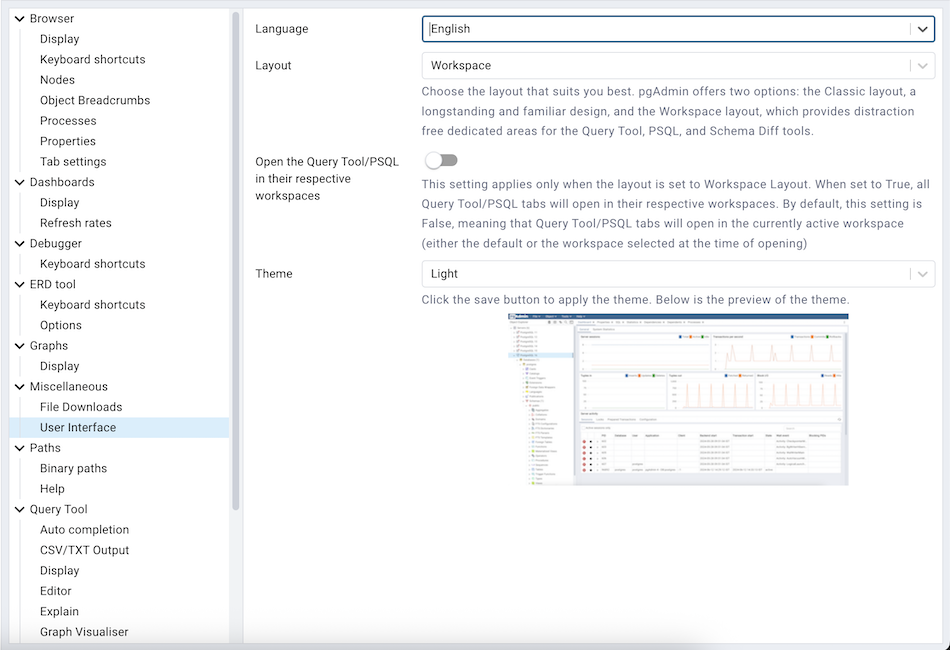
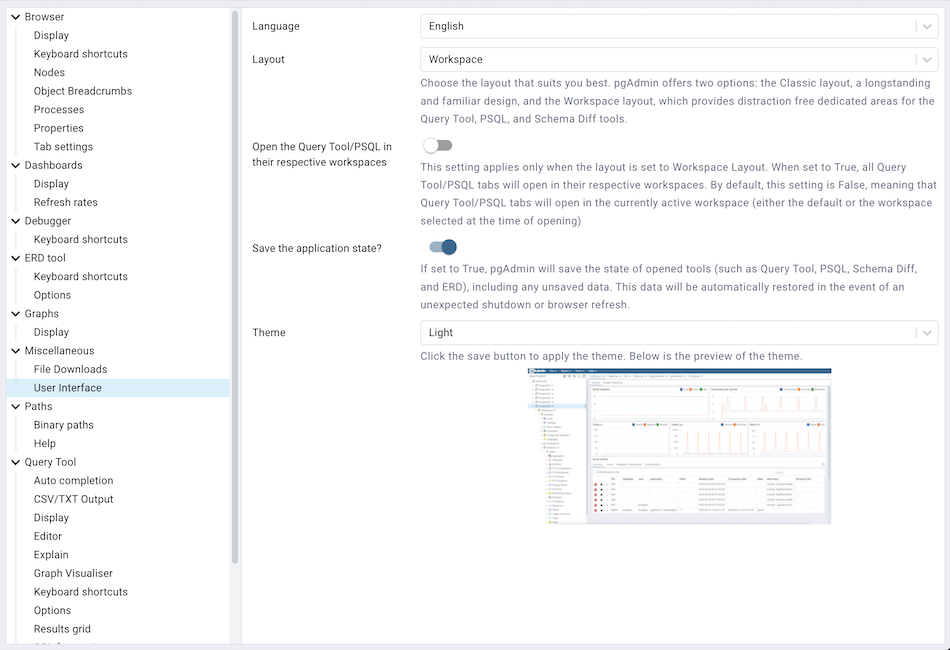
1. Fixed issues reported while testing changes for editor preferences. #2659
2. Updated preferences docs.

diff --git a/web/pgadmin/browser/static/js/browser.js b/web/pgadmin/browser/static/js/browser.js
@@ -1653,38 +1653,7 @@ define('pgadmin.browser', [
       }
 
     },
-
-    editor_shortcut_keys: {
-      // Autocomplete sql command
-      'Ctrl-Space': 'autocomplete',
-      'Cmd-Space': 'autocomplete',
-
-      'Alt-Up': 'goLineUp',
-      'Alt-Down': 'goLineDown',
-
-      // Move word by word left/right
-      'Ctrl-Alt-Left': 'goGroupLeft',
-      'Cmd-Alt-Left': 'goGroupLeft',
-      'Ctrl-Alt-Right': 'goGroupRight',
-      'Cmd-Alt-Right': 'goGroupRight',
-
-      // Allow user to delete Tab(s)
-      'Shift-Tab': 'indentLess',
-    },
-    editor_options: {
-      tabSize: parseInt(pgBrowser.utils.tabSize),
-      wrapCode: pgBrowser.utils.wrapCode,
-      insert_pair_brackets: pgBrowser.utils.insertPairBrackets,
-      brace_matching: pgBrowser.utils.braceMatching,
-      indent_with_tabs: pgBrowser.utils.is_indent_with_tabs,
-      highlightSelectionMatches:pgBrowser.utils.highlightSelectionMatches
-    },
   });
-
-  // Use spaces instead of tab
-  if (pgBrowser.utils.useSpaces == 'True') {
-    pgAdmin.Browser.editor_shortcut_keys.Tab = 'insertSoftTab';
-  }
 
   return pgAdmin.Browser;
 });

diff --git a/web/pgadmin/static/js/components/ReactCodeMirror/components/Editor.jsx b/web/pgadmin/static/js/components/ReactCodeMirror/components/Editor.jsx
@@ -272,8 +272,10 @@ export default function Editor({
   useEffect(() => {
     if (!checkIsMounted()) return;
     const keys = keymap.of([
-      customKeyMap??[], defaultKeymap, closeBracketsKeymap, historyKeymap,
-      foldKeymap, completionKeymap
+      // Filtering out the default keymaps so that it uses the custom keymaps.
+      customKeyMap??[], ...completionKeymap.filter(k => k.key != 'Ctrl-Space'),
+      defaultKeymap.filter(k => k.key != 'Mod-/'), closeBracketsKeymap, historyKeymap,
+      foldKeymap
     ].flat());
     editor.current?.dispatch({
       effects: shortcuts.current.reconfigure(keys)
@@ -298,6 +300,7 @@ export default function Editor({
     }));
 
     const autoCompOptions = {
+      defaultKeymap: false,
       icons: false,
       addToOptions: [{
         render: (completion) => {

diff --git a/web/pgadmin/browser/templates/browser/js/utils.js b/web/pgadmin/browser/templates/browser/js/utils.js
@@ -85,13 +85,6 @@ define('pgadmin.browser.utils',
     layout: {{ layout|tojson }},
     theme: '{{ theme }}',
     pg_help_path: '{{ pg_help_path }}',
-    tabSize: '{{ editor_tab_size }}',
-    wrapCode: '{{ editor_wrap_code }}' == 'True',
-    useSpaces: '{{ editor_use_spaces }}',
-    insertPairBrackets: '{{ editor_insert_pair_brackets }}' == 'True',
-    braceMatching: '{{ editor_brace_matching }}' == 'True',
-    highlightSelectionMatches: '{{editor_highlight_selection_matches}}' == 'True',
-    is_indent_with_tabs: '{{ editor_indent_with_tabs }}' == 'True',
     app_name: '{{ app_name }}',
     app_version_int: '{{ app_version_int}}',
     pg_libpq_version: {{pg_libpq_version|e}},

diff --git a/web/pgadmin/static/js/components/ReactCodeMirror/index.jsx b/web/pgadmin/static/js/components/ReactCodeMirror/index.jsx
@@ -131,7 +131,7 @@ export default function CodeMirror({className, currEditor, showCopyBtn=false, cu
     preventDefault: true,
     stopPropagation: true,
   },{
-    key: toCodeMirrorKey(preferences.autocomplete), run: startCompletion,
+    key: toCodeMirrorKey(preferences.auto_complete), run: startCompletion,
     preventDefault: true,
   },
   ...customKeyMap], [customKeyMap]);

diff --git a/web/pgadmin/browser/__init__.py b/web/pgadmin/browser/__init__.py
@@ -481,32 +481,6 @@ def utils():
     pg_help_path_pref = prefs.preference('pg_help_path')
     pg_help_path = pg_help_path_pref.get()
 
-    # Get sqleditor options
-    prefs = Preferences.module('sqleditor')
-
-    editor_tab_size_pref = prefs.preference('tab_size')
-    editor_tab_size = editor_tab_size_pref.get()
-
-    editor_use_spaces_pref = prefs.preference('use_spaces')
-    editor_use_spaces = editor_use_spaces_pref.get()
-
-    editor_wrap_code_pref = prefs.preference('wrap_code')
-    editor_wrap_code = editor_wrap_code_pref.get()
-
-    brace_matching_pref = prefs.preference('brace_matching')
-    brace_matching = brace_matching_pref.get()
-
-    highlight_selection_matches_pref = prefs.preference(
-        'highlight_selection_matches'
-    )
-    highlight_selection_matches = highlight_selection_matches_pref.get()
-
-    insert_pair_brackets_perf = prefs.preference('insert_pair_brackets')
-    insert_pair_brackets = insert_pair_brackets_perf.get()
-
-    # This will be opposite of use_space option
-    editor_indent_with_tabs = False if editor_use_spaces else True
-
     # Try to fetch current libpq version from the driver
     try:
         from config import PG_DEFAULT_DRIVER
@@ -537,13 +511,6 @@ def utils():
             layout=layout,
             jssnippets=snippets,
             pg_help_path=pg_help_path,
-            editor_tab_size=editor_tab_size,
-            editor_use_spaces=editor_use_spaces,
-            editor_wrap_code=editor_wrap_code,
-            editor_brace_matching=brace_matching,
-            editor_highlight_selection_matches=highlight_selection_matches,
-            editor_insert_pair_brackets=insert_pair_brackets,
-            editor_indent_with_tabs=editor_indent_with_tabs,
             app_name=config.APP_NAME,
             app_version_int=config.APP_VERSION_INT,
             pg_libpq_version=pg_libpq_version,

diff --git a/docs/en_US/preferences.rst b/docs/en_US/preferences.rst
@@ -43,17 +43,18 @@ Use the fields on the *Display* panel to specify general display preferences:
   be automatically expanded if a treeview node is expanded and has only a single
   child.
 
+* When the *Confirm before Close/Reset in object properties dialog?* switch is
+  set to *True*, pgAdmin will warn you before closing the properties dialog of
+  an object if there are any unsaved changes. On user confirmation,
+  the properties dialog will close.
+
+* When the *Confirm on close or refresh?* switch is set to *True*, pgAdmin will
+  attempt to catch browser close or refresh events and prompt before allowing
+  them to continue.
+
 * Use the *Object explorer state saving interval* field to set the treeview state
   saving interval. A value of *-1* will disable the treeview state saving
   functionality.
-
-* When the *Confirm before closing properties with unsaved changes* switch is set to *True*,
-  pgAdmin will warn you before closing the properties dialog of an object if there
-  are any unsaved changes. On user confirmation, the properties dialog will close.
-
-* When the *Confirm on close or refresh* switch is set to *True*, pgAdmin will
-  attempt to catch browser close or refresh events and prompt before allowing
-  them to continue.
 
 * When the *Hide shared servers?* switch is set to *True*, the client will hide
   all the shared servers from the object explorer. **Note:** This option is visible only when
@@ -61,9 +62,11 @@ Use the fields on the *Display* panel to specify general display preferences:
 
 * When the *Show empty object collections?* switch is turned off, then all object
   collections which are empty will be hidden from browser tree.
+
 * When the *Show system objects?* switch is set to *True*, the client will
   display system objects such as system schemas (for example, *pg_temp*) or
   system columns (for example,  *xmin* or *ctid*) in the tree control.
+
 * When the *Show template databases?* switch is set to *True*, the client will
   display template databases.
 
@@ -138,6 +141,8 @@ Use field on *Tab settings* panel to specify the tab related properties.
 
 * When the *Dynamic tab size* If set to True, the tabs will take full size as per the title, it will also applicable for already opened tabs
 
+* Use the *PSQL tool tab title placeholder* field to customize the PSQL tool tab title.
+
 * When the *Open in new browser tab* filed is selected for Query tool, Schema Diff or Debugger, it will
   open in a new browser tab when invoked.
 
@@ -190,6 +195,9 @@ preferences for the graphs on the *Dashboard* tab:
 
 * Use the *Memory usage statistics refresh rate* field to specify the number
   of seconds between memory usage statistics samples displayed in graphs.
+
+* Use the *PGD replication lag refresh rate* field to specify the number
+  of seconds between PGD replication lag samples displayed in graphs.
 
 * Use the *Percentage of CPU time used by different process modes statistics refresh rate*
   field to specify the number of seconds between Percentage of CPU time used by different
@@ -259,12 +267,12 @@ The Graphs Node
 
 Expand the *Graphs* node to specify your Graphs display preferences.
 
-* Use the *Chart line width* field to specify the width of the lines on the
-  line chart.
-
 .. image:: images/preferences_dashboard_graphs.png
     :alt: Preferences dashboard graph options
     :align: center
+
+* Use the *Chart line width* field to specify the width of the lines on the
+  line chart.
 
 * When the *Show graph data points?* switch is set to *True*, data points will
   be visible on graph lines.
@@ -318,18 +326,16 @@ Use the fields on the *User Interface* panel to set the user interface related p
 
 * When the *Save the application state?* option is enabled  the current state of various
   tools—such as Query Tool, ERD, Schema Diff, and PSQL—will be saved in the encrypted
-  format.If the application is closed unexpectedly, the tab is accidentally closed,
+  format. If the application is closed unexpectedly, the tab is accidentally closed,
   or the page is refreshed, the saved state will be automatically restored for
-  each respective tool.**Note:**
+  each respective tool. **Note:** Saving the application state will not preserve data for tool tabs opened in
+  separate browser tabs when running in server mode.
 
 * Use the *Themes* drop-down listbox to select the theme for pgAdmin. You'll also get a preview just below the
   drop down. You can also submit your own themes,
   check `here <https://github.com/pgadmin-org/pgadmin4/blob/master/README.md>`_ how.
   Currently we support Light, Dark, High Contrast and System theme. Selecting System option will follow
   your computer's settings.
-
-**Note:** Saving the application state will not preserve data for tool tabs opened in
-separate browser tabs when running in server mode..
 
 The Paths Node
 **************
@@ -427,6 +433,10 @@ Tool display.
 
 Use the fields on the *Editor* panel to change settings of the query editor.
 
+* Use the *Auto-indent new line?* switch to specify whether the editor will
+  automatically indent new lines. When set to *True*, the editor will indent
+  new lines according to the indentation of the previous line.
+
 * When the *Brace matching?* switch is set to *True*, the editor will highlight
   pairs of matched braces.
 
@@ -444,6 +454,9 @@ Use the fields on the *Editor* panel to change settings of the query editor.
 * Use the *Font size* field to specify the font size that will be used in text
   boxes and editors.
 
+* When the *Highlight selection matches?* switch is set to *True*, the editor will
+  highlight matched selected text.
+
 * When the *Insert bracket pairs?* switch is set to *True*, the editor will
   automatically insert paired brackets.
 
@@ -453,9 +466,6 @@ Use the fields on the *Editor* panel to change settings of the query editor.
 * When the *Plain text mode?* switch is set to *True*, the editor mode will be
   changed to text/plain. Keyword highlighting and code folding will be disabled.
   This will improve editor performance with large files.
-
-* When the *Highlight selection matches?* switch is set to *True*, the editor will
-  highlight matched selected text.
 
 .. image:: images/preferences_sql_explain.png
     :alt: Preferences sqleditor explain options
@@ -512,28 +522,28 @@ Use the fields on the *Options* panel to manage editor preferences.
   the CREATE sql of the selected object will be copied to query tool when query tool
   will open.
 
+* When the *Open the file in a new tab?* switch is set to *True*, the
+  editor will open the new file in new tab of the Query Tool.
+
+* When the *Prompt to commit/rollback active transactions?* switch is set to
+  *True*, the editor will prompt the user to commit or rollback changes when
+  exiting the Query Tool while the current transaction is not committed.
+  
 * When the *Prompt to save unsaved data changes?* switch is set to *True*, the
   editor will prompt the user to saved unsaved data when exiting the data
   editor.
-
-* When the *Open the file in a new tab?* switch is set to *True*, the
-  editor will open the new file in new tab of the Query Tool.
 
 * When the *Prompt to save unsaved query changes?* switch is set to *True*, the
   editor will prompt the user to saved unsaved query modifications when exiting
   the Query Tool.
 
-* When the *Prompt to commit/rollback active transactions?* switch is set to
-  *True*, the editor will prompt the user to commit or rollback changes when
-  exiting the Query Tool while the current transaction is not committed.
+* When the *Show View/Edit Data Promotion Warning?* switch is set to *True*
+  View/Edit Data tool will show promote to Query tool confirm dialog on query edit.
 
 * When the *Sort View Data results by primary key columns?* If set to *True*,
   data returned when using the View/Edit Data - All Rows option will be sorted
   by the Primary Key columns by default. When using the First/Last 100 Rows options,
   data is always sorted.
-
-* When the *Show View/Edit Data Promotion Warning?* switch is set to *True*
-  View/Edit Data tool will show promote to Query tool confirm dialog on query edit.
 
 * When the *Underline query at cursor?* switch is set to *True*, query tool will
   parse and underline the query at the cursor position.
@@ -553,14 +563,15 @@ preferences for copied data.
   auto-size to the maximum width of the data in the column as loaded in the
   first batch. If set to *Column name*, the column will be sized to the widest
   of the data type or column name.
-* Specify the maximum width of the column in pixels when 'Columns sized by' is
-  set to *Column data*. If 'Columns sized by' is set to *Column name* then this
-  setting won't have any effect.
-* Specify the number of records to fetch in one batch. Changing this value will
-  override DATA_RESULT_ROWS_PER_PAGE setting from config file.
+* Use *Data result rows per page* to specify the number of records to fetch in
+  one batch. Changing this value will override DATA_RESULT_ROWS_PER_PAGE setting
+  from config file.
 * Use the *Max column data display length* to specify the maximum number of
   characters to be visible in the data output cell. If the data is larger 
   than this value, it will be truncated.
+* Use *Maximum column width* to Specify the maximum width of the column in pixels
+  when 'Columns sized by' is set to *Column data*. If 'Columns sized by' is set to
+  *Column name* then this setting won't have any effect.
 * Use the *Result copy field separator* drop-down listbox to select the field
   separator for copied data.
 * Use the *Result copy quote character* drop-down listbox to select the quote
